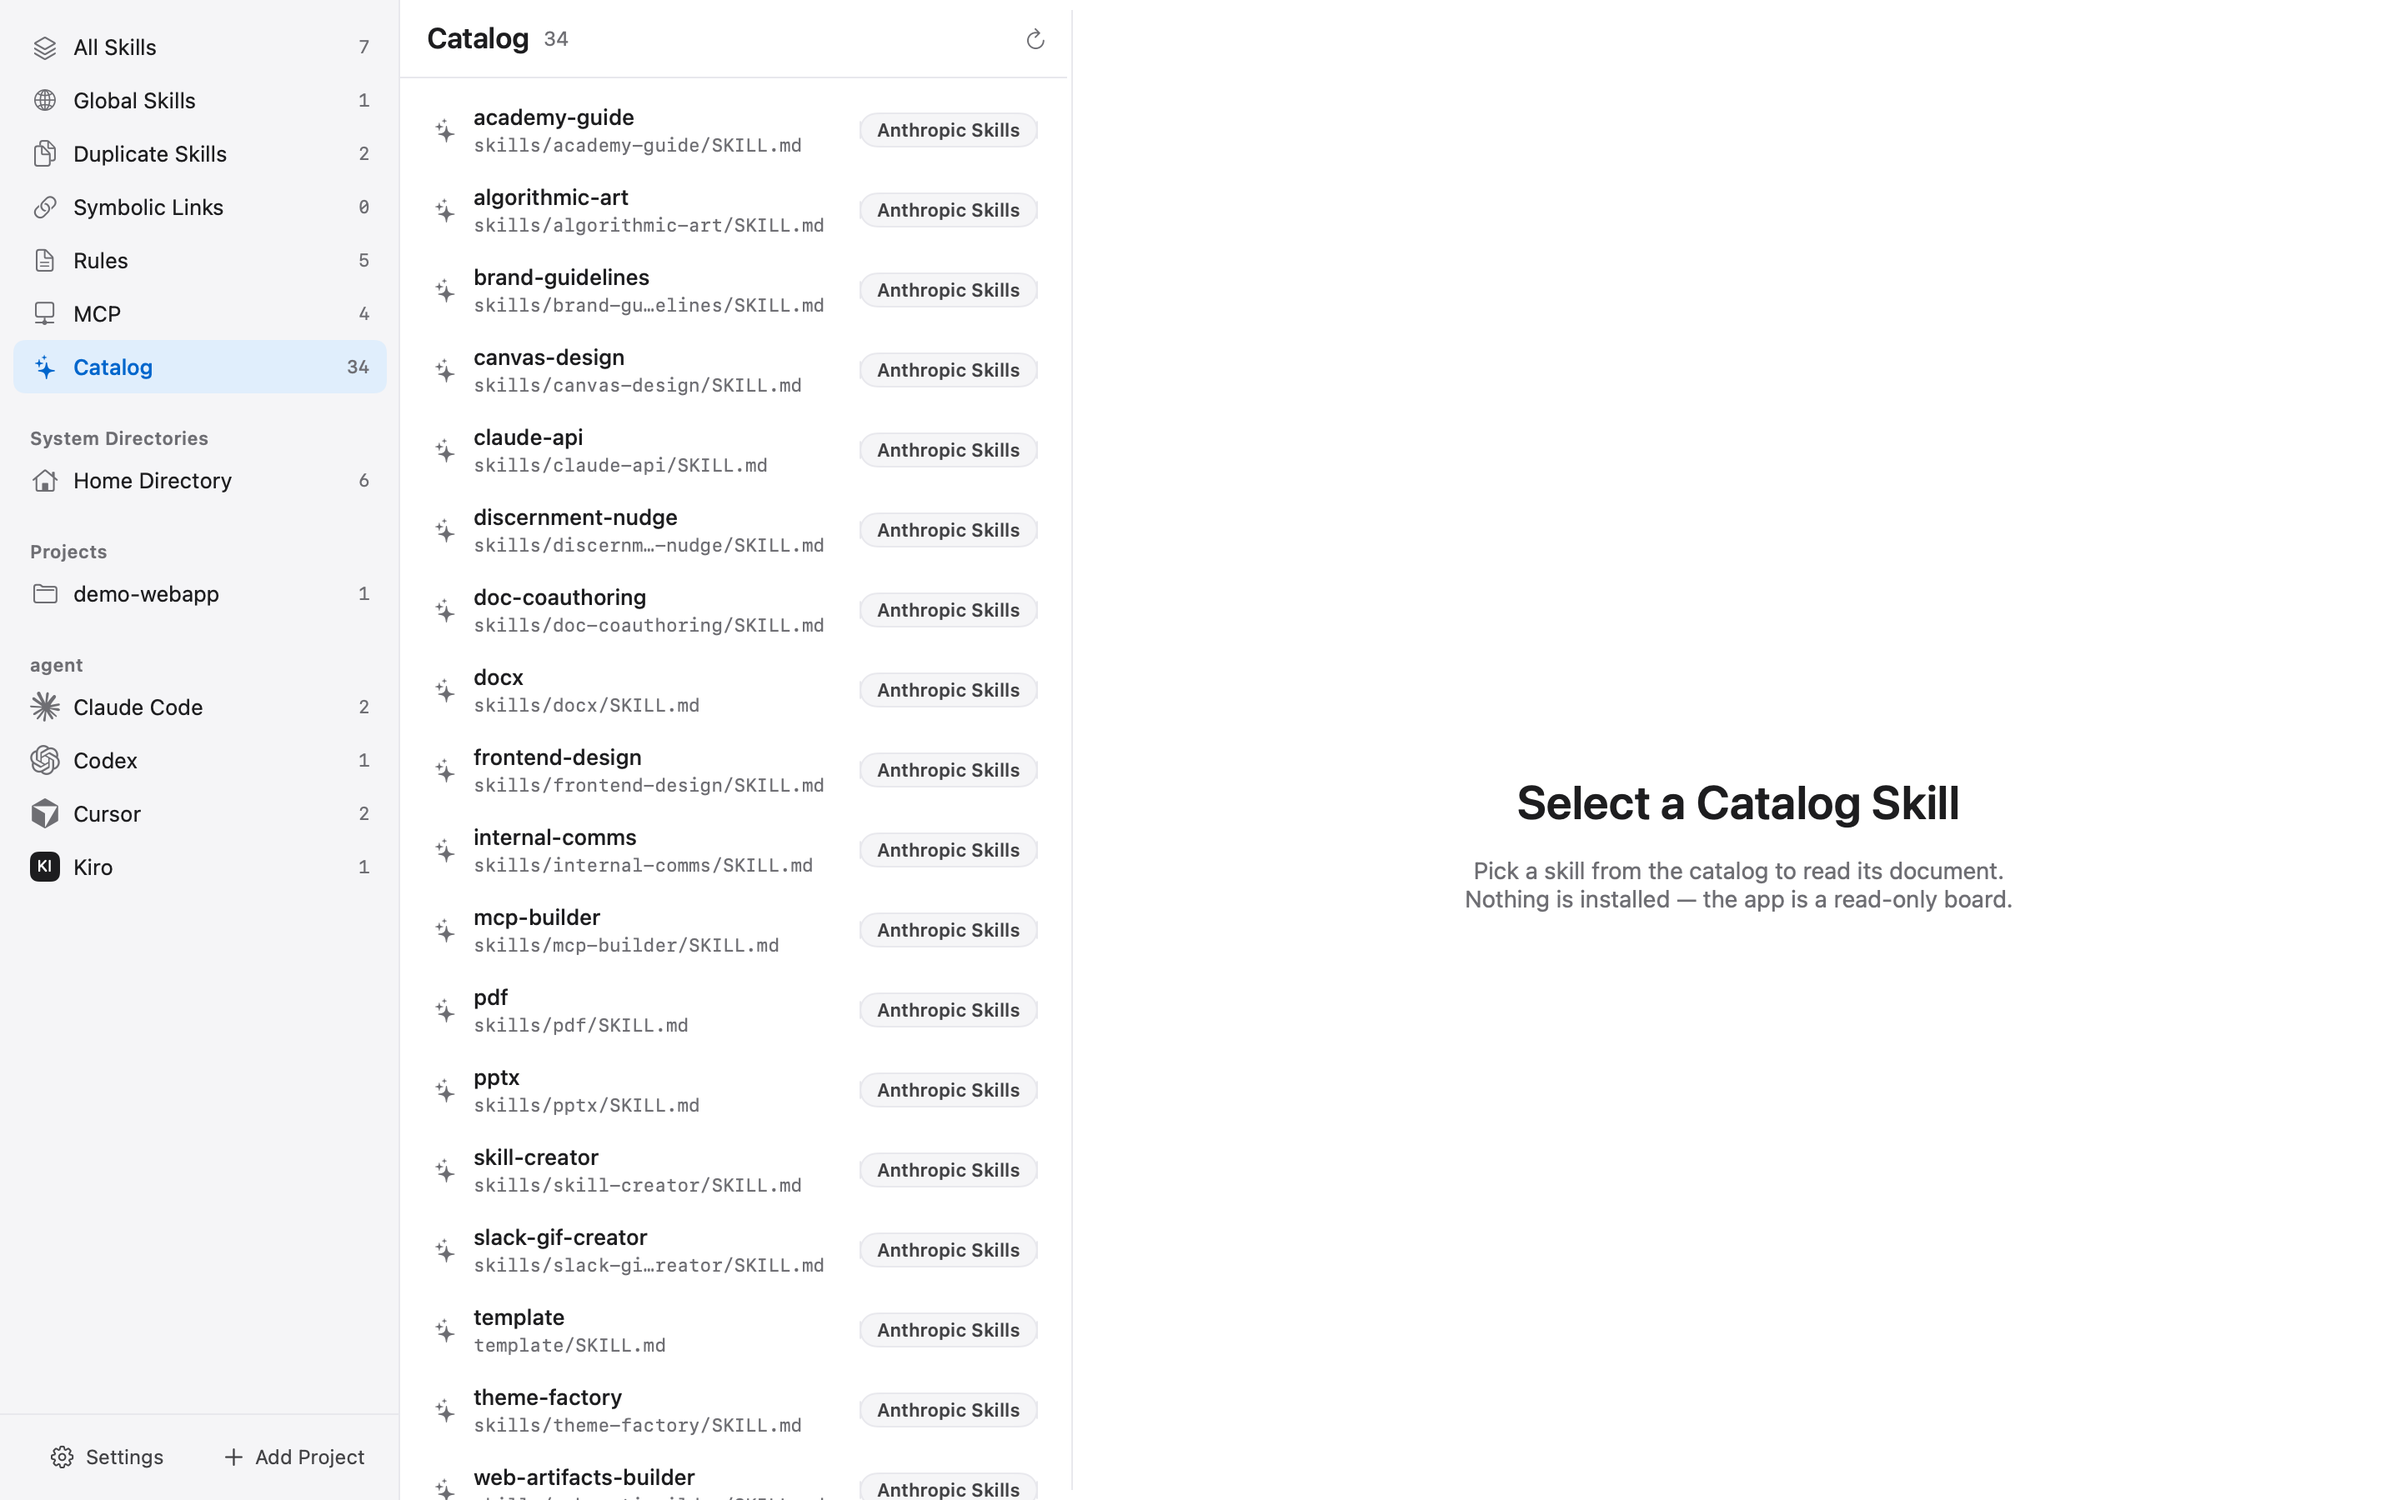
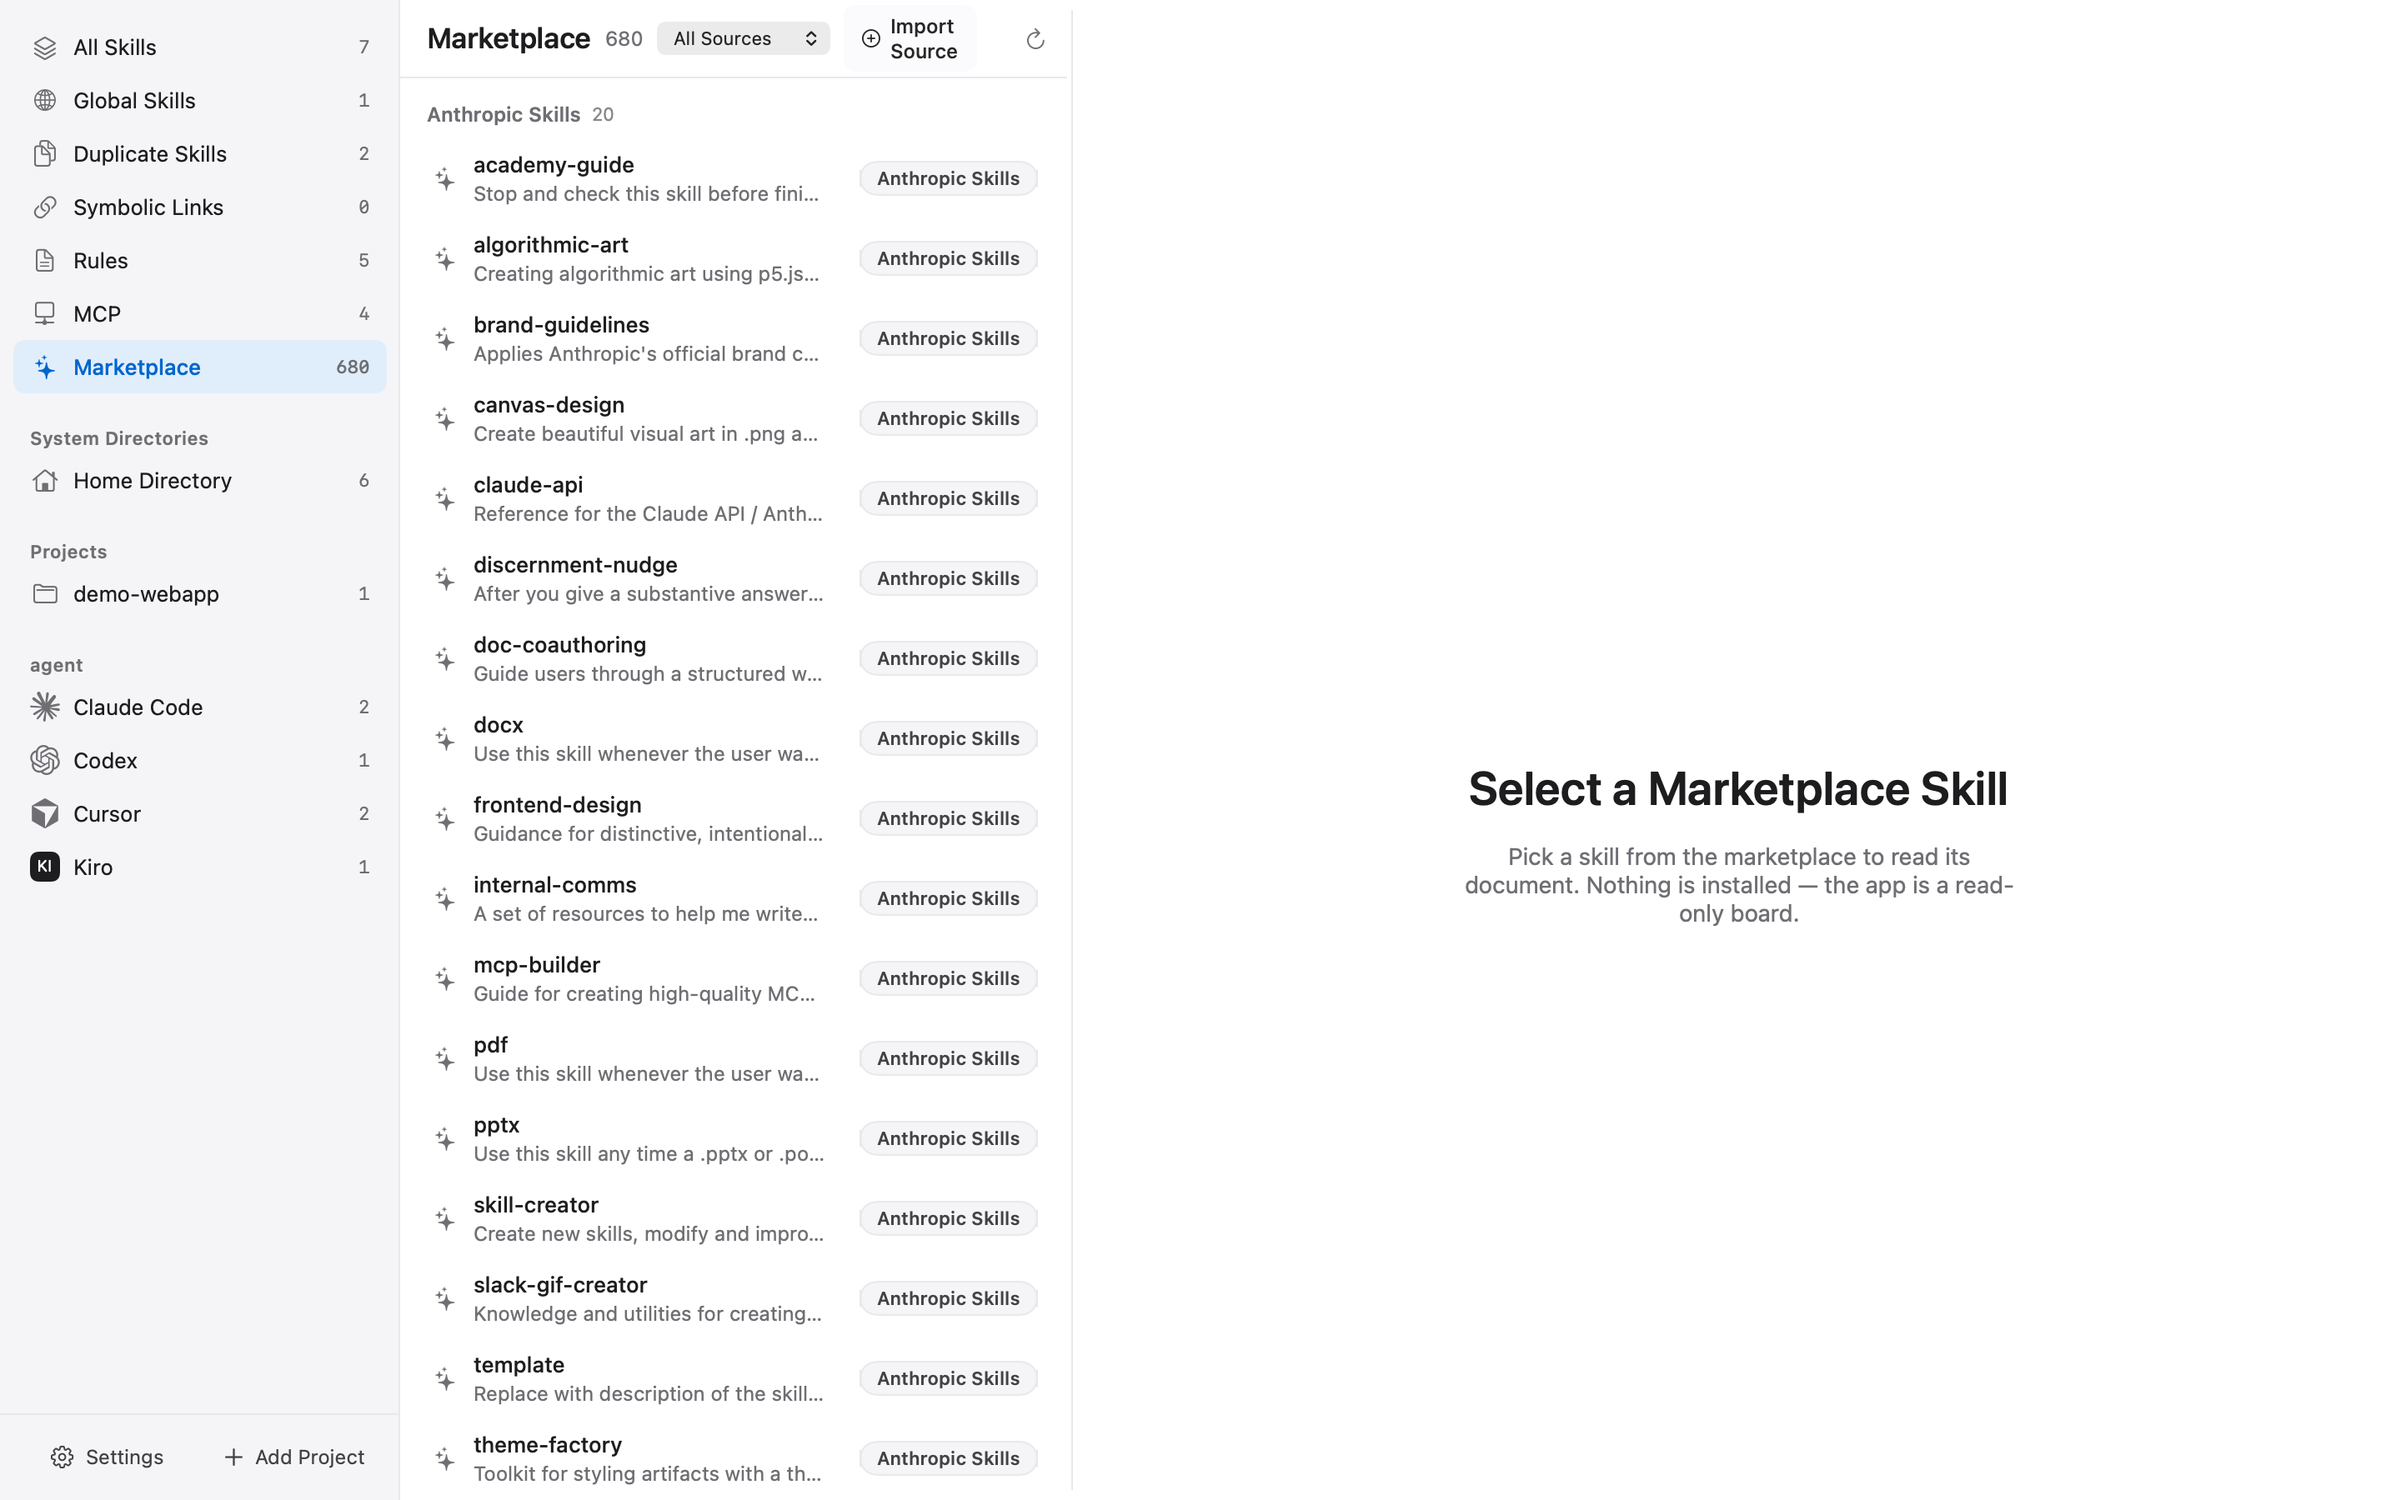
docs: refresh marketplace README copy and screenshots
- Bullets now cover the 7-source catalog, repository grouping, the
  source filter, Import Source, and the copy-install-command handoff
- README intro no longer claims 'not a marketplace' — the read-only
  marketplace browser is a shipped feature
- Screenshots re-rendered against the live 7-source catalog (grouped
  sections, source filter, Import Source button); catalog capture waits
  for the first screenful of descriptions

diff --git a/Sources/SkillSelector/ScreenshotMode.swift b/Sources/SkillSelector/ScreenshotMode.swift
@@ -114,7 +114,7 @@ enum ScreenshotMode {
             RootView(initialDestination: .catalog).environment(model),
             size: NSSize(width: 1440, height: 900)
         )
-        await settle(seconds: 1.2)
+        await settle(seconds: 3)
         capture(catalog, name: "catalog-\(languageTag).png")
         catalog.orderOut(nil)
 

diff --git a/README.en.md b/README.en.md
@@ -20,7 +20,7 @@ Also:
 - The sidebar's "Rules" lists each Agent's instruction files (`CLAUDE.md`, `AGENTS.md`, `.cursorrules`, plus directory sources like `.cursor/rules`, `.claude/rules`, `.roo/rules` and the GEMINI.md hierarchy) with rendered Markdown details; equally read-only
 - Beyond exact duplicates there's **near-duplicate** grouping (MinHash similarity fingerprints) and a **compare sheet**: view two copies' frontmatter, body and child files side by side
 - Refresh history (what was added / changed / removed) is kept locally and always reviewable
-- The sidebar's "Catalog" fetches declared GitHub sources (e.g. `anthropics/skills`) on demand to show what the ecosystem offers — browsing only: open on GitHub or copy the link; installation stays with the ecosystem's tooling, nothing is installed in-app
+- The sidebar's "Marketplace" fetches 7 verified GitHub repos on demand (Anthropic official plus community collections like Superpowers and Vercel — about 680 skills), browses them grouped by repository with a source filter, and shows each skill's description and document; "Import Source" adds your own repo (owner/repo or link). Browsing only: open on GitHub, copy the link, or copy the `npx skills add …` install command — installation stays with the ecosystem's tooling
 - Project / system-directory entries appear only when they hold Skills; "All Skills", "Global Skills", "Duplicates", "Symbolic Links" and "Agents" are always visible
 - Agent rows in the sidebar show the matching brand mark (Claude Code, Codex, Cursor, …) or a letter monogram when no mark ships
 - Importing a folder scans that folder only — the Skill list appears right away instead of after a wait
@@ -41,7 +41,7 @@ Also:
 
 ![Rules (English)](screenshots/rules-en.png)
 
-![Catalog (English)](screenshots/catalog-en.png)
+![Marketplace (English)](screenshots/catalog-en.png)
 
 ## Supported Agents
 
@@ -51,7 +51,7 @@ Roo Code is legacy compatibility and only appears once detected or enabled in Se
 
 ## Privacy
 
-The local features run offline. No telemetry, no crash reporter, no file watcher, no bundled model. The only outbound traffic is the Catalog fetching its declared GitHub sources on demand (a request happens only when you open that section or hit refresh — never polled, never persisted). The index stores metadata only (paths, owning Agents, descriptions) and never copies Skill content; folder access goes through security-scoped bookmarks, and scans stick to the fixed paths declared in the registry.
+The local features run offline. No telemetry, no crash reporter, no file watcher, no bundled model. The only outbound traffic is the Marketplace fetching its declared GitHub sources on demand (a request happens only when you open that section or hit refresh — never polled, never persisted). The index stores metadata only (paths, owning Agents, descriptions) and never copies Skill content; folder access goes through security-scoped bookmarks, and scans stick to the fixed paths declared in the registry.
 
 ## Install
 
